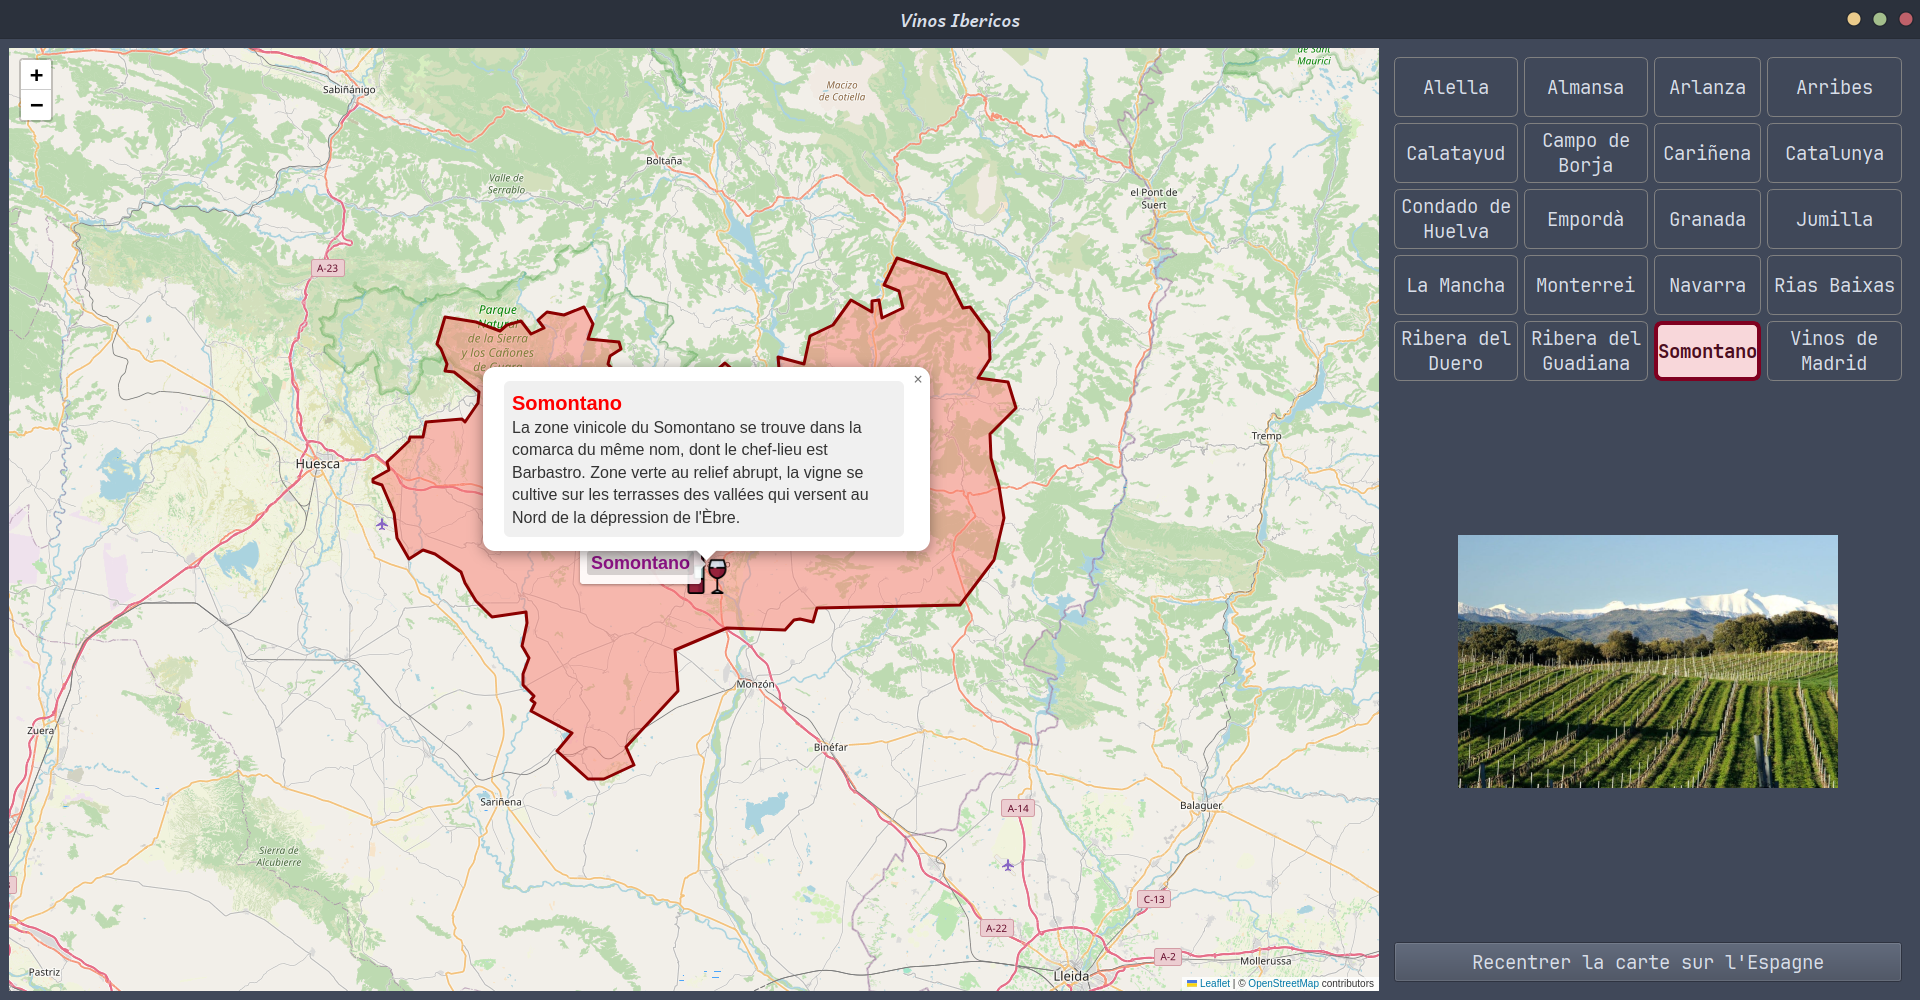
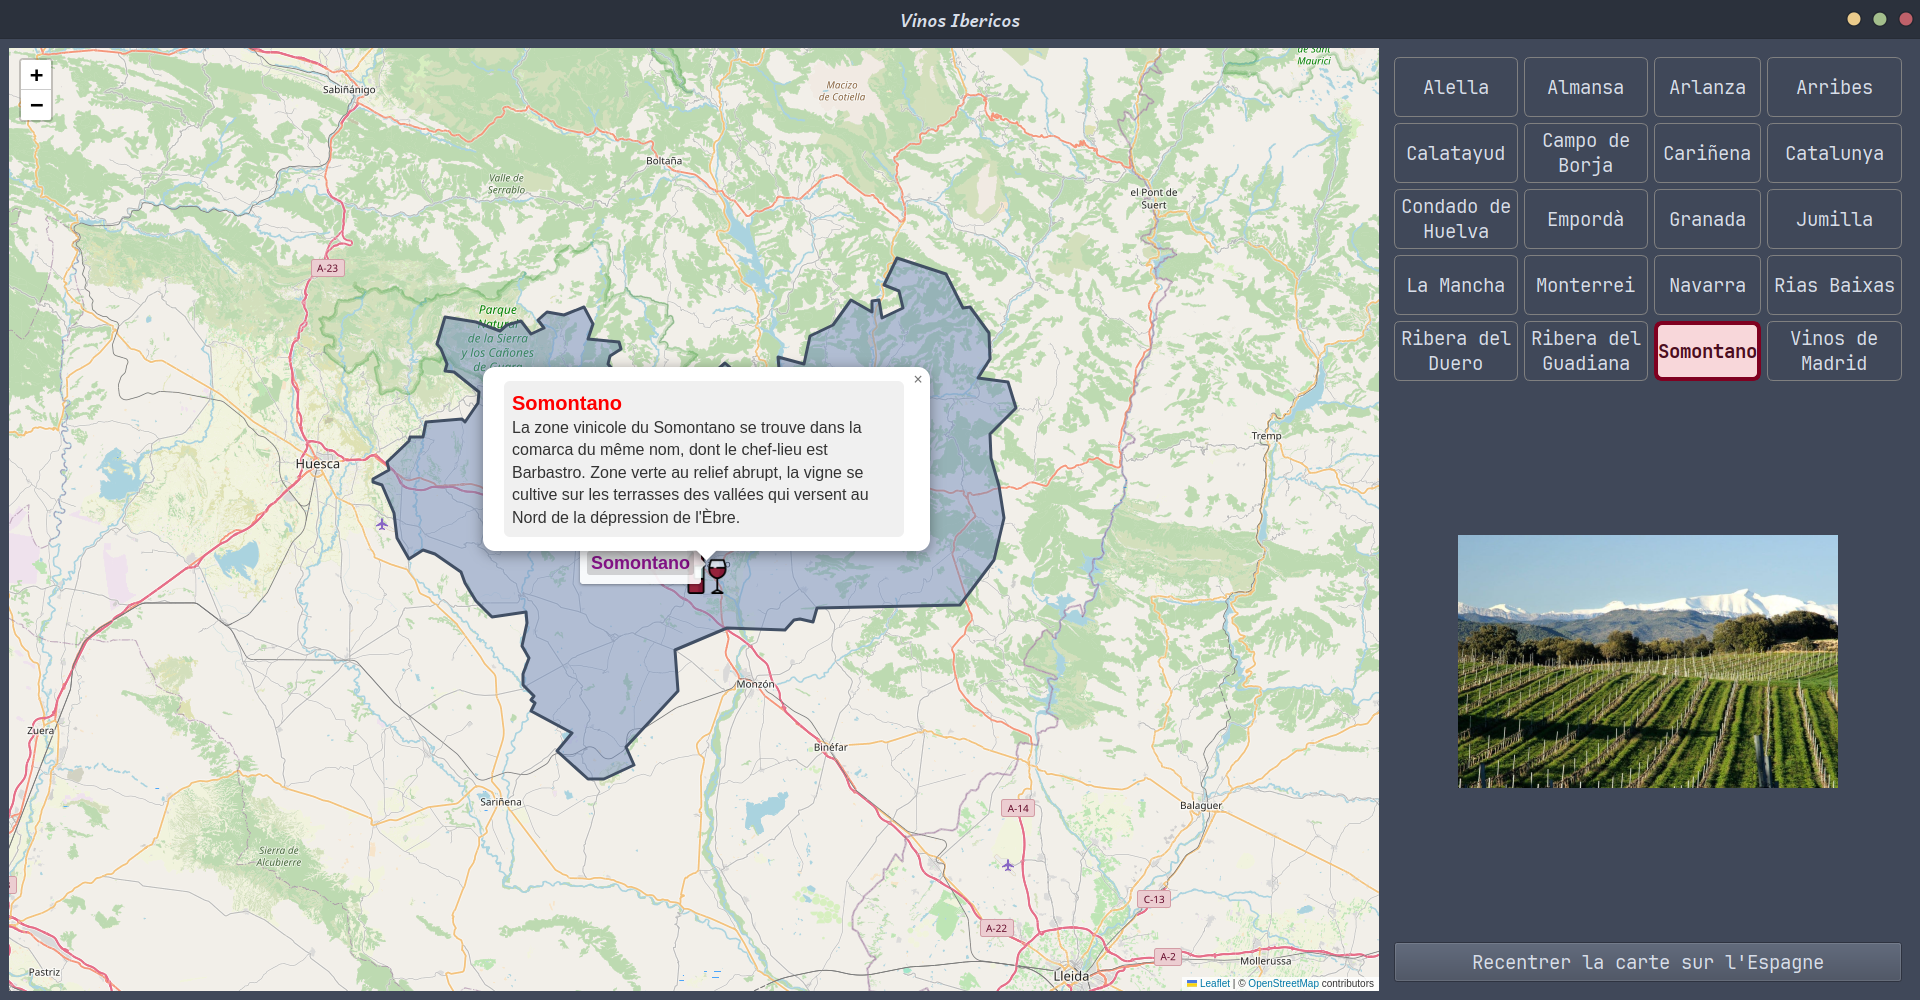
feat(UI): change polygones's colors
'#414f64' and '#6f8bbe' (blue tints)

Changed region(s): [[0.1875, 0.248, 0.5312, 0.775]]

diff --git a/vinos_ibericos/map_manager.py b/vinos_ibericos/map_manager.py
@@ -157,9 +157,9 @@ class MapManager:
         polygon_coords = [[lat, lon] for lon, lat in raw_coords]
         return folium.Polygon(
             locations=polygon_coords,
-            color="darkred",
+            color="#414f64",
             fill=True,
-            fill_color="salmon",
+            fill_color="#6f8bbe",
             fill_opacity=0.5,
             weight=3,
         ), polygon_coords
